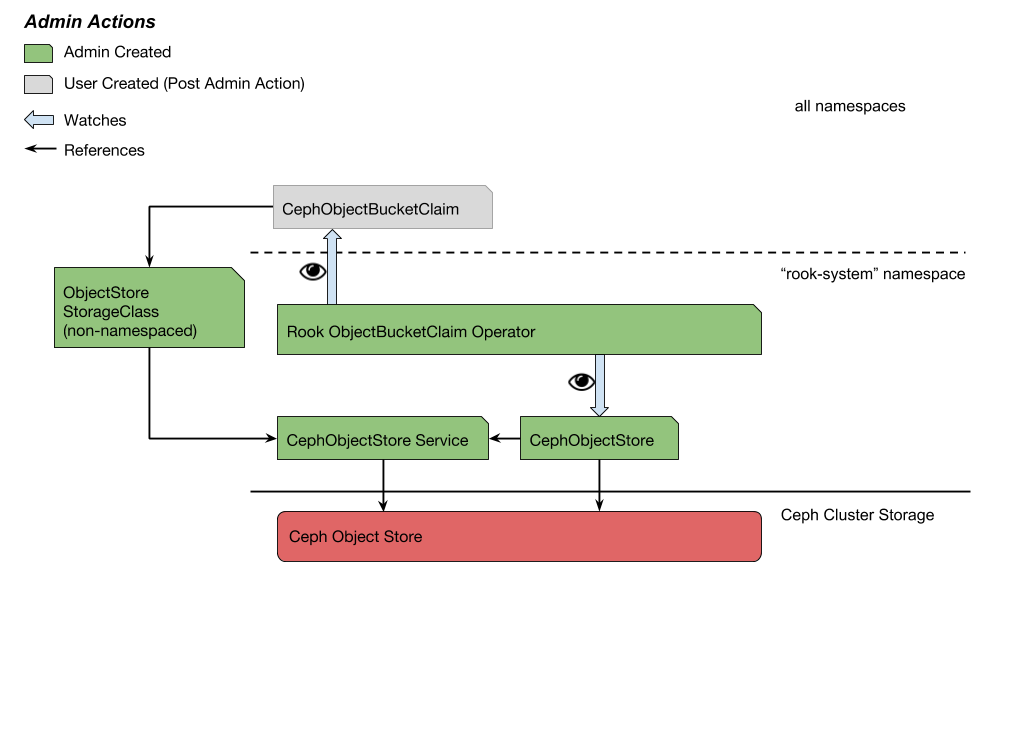
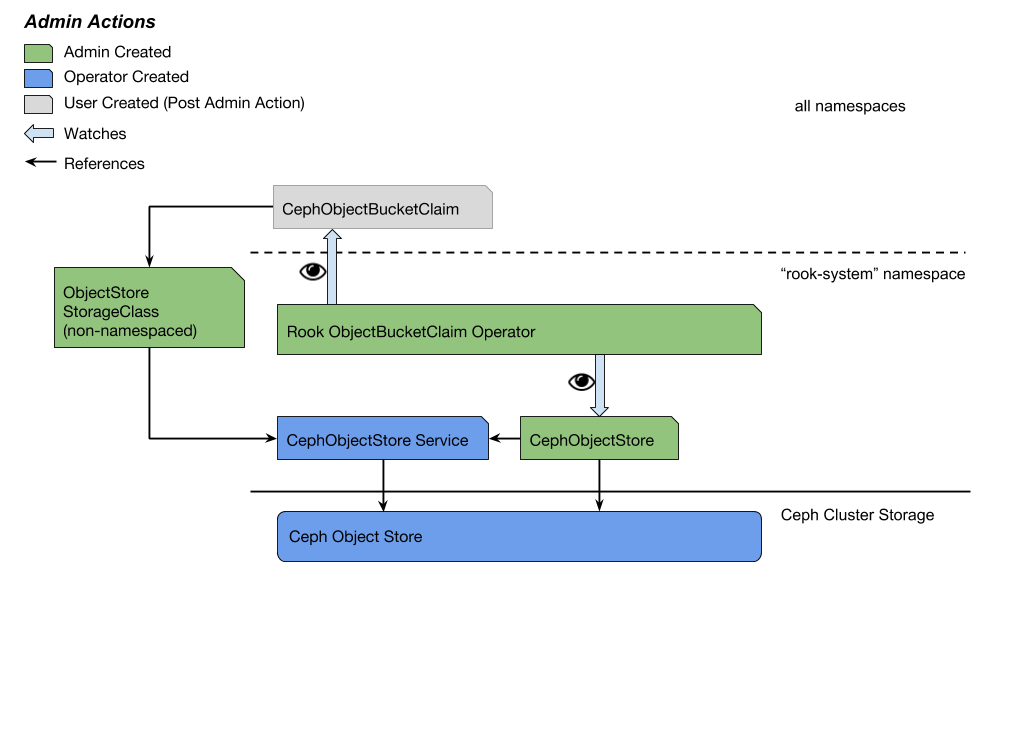
diagram formatting, moved out-of-scope admin actions to Assumptions

Changed region(s): [[0.249, 0.6738, 0.7471, 0.7656], [0.0, 0.0919, 0.3113, 0.245], [0.249, 0.5513, 0.4981, 0.6125]]

diff --git a/design/object-bucket/object-bucket.md b/design/object-bucket/object-bucket.md
@@ -39,6 +39,9 @@ Add a CephObjectBucketClaim API endpoint and control loop to the Rook-Ceph opera
 ### Assumptions
 
 - A running Kubernetes cluster
+- The Rook-Ceph Operator is deployed in namespace `rook-ceph-system`
+- A CephCluster CRD instance created in namespace `rook-ceph-system`
+- A CephObjectStore CRD instance created in namespace `rook-ceph`
 
 **Use Case: Expose an Object Store Endpoint for Bucket Provisioning**
 
@@ -46,10 +49,6 @@ As an admin, I want to expose an existing object store to cluster users so they 
 
 ![admin-actions](./cobc-admin.png)
 
-1. The admin creates the Rook-Ceph Operator and a CephCluster in namespace `rook-ceph-system`
-    1. The operator begins watching for CephObjectBucketClaim instances in all namespaces
-1. The admin creates a CephObjectStore in namespace `rook-ceph`
-1. The operator detects a new CephObjectStore and provisions a Ceph Object store. 
 1. The admin creates a StorageClass with `parameters[serviceName]=OBJECT-STORE-SERVICE` and `parameters[serviceNamespace]=OBJECT-STORE-NAMESPACE`
 
 **Use Case: Provision a Bucket** 
